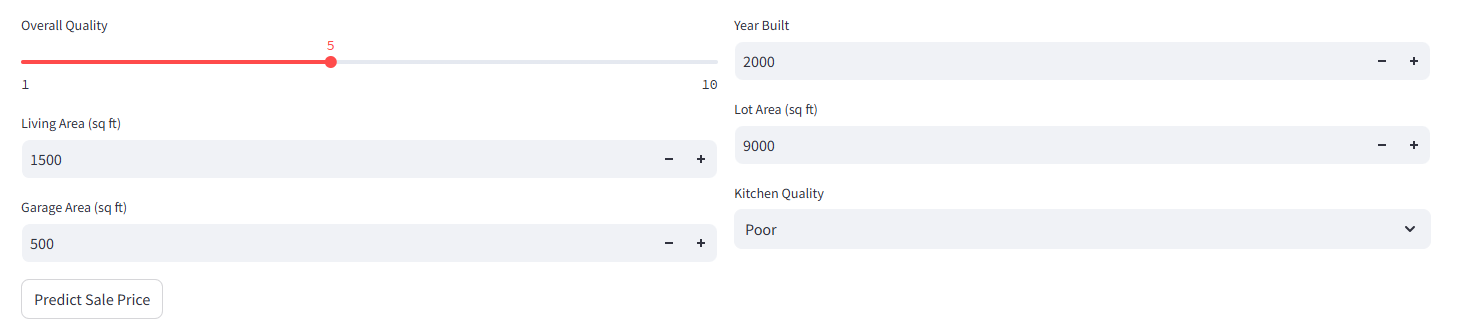
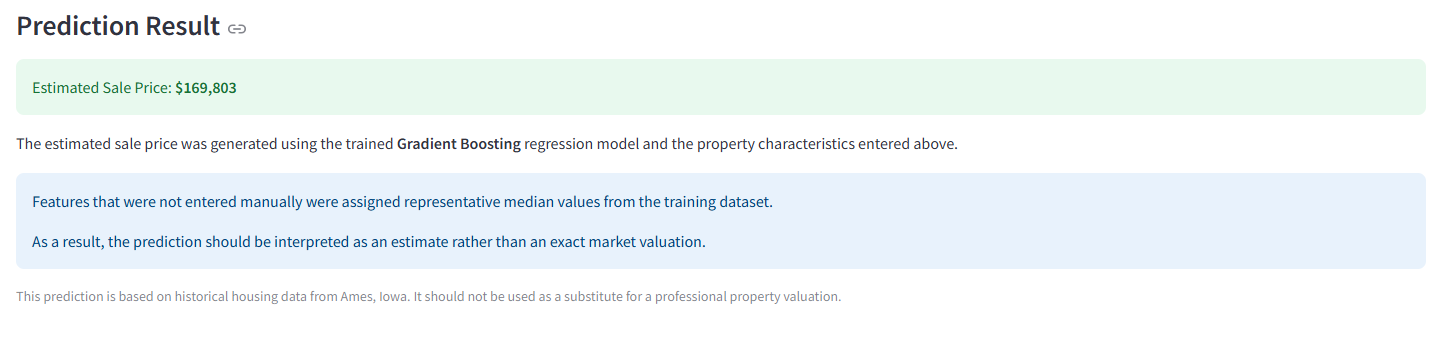
Add Dashboard design in README

diff --git a/README.md b/README.md
@@ -492,29 +492,45 @@ Both business requirements were addressed through exploratory analysis, feature 
 
 ## Dashboard Design
 
-The Streamlit dashboard contains five pages:
+The Streamlit dashboard is organised into five pages that guide the user through the project, from understanding the business problem to generating house price predictions.
 
 ### Project Overview
 
-- Introduces the project, its purpose, and the housing-price prediction objective.
+The Project Overview page introduces the purpose of the project, outlines the business scenario, and provides an overview of the dashboard. It also displays the navigation menu, allowing users to move easily between each section of the application.
+
+![Project Overview](images/readme/project_overview_full.png)
+
+The introduction section summarises the project objectives and the machine learning approach used to estimate house sale prices.
+
+![Project Overview Introduction](images/readme/project_overview_intro.png)
 
 ### Business Understanding
 
-- Explains the client problem, project hypotheses, and the validation results.
+The Business Understanding page explains the client's requirements, presents the project hypotheses, and summarises whether each hypothesis was supported after analysing the dataset.
+
+![Business Understanding](images/readme/business_understanding.png)
 
 ### Data Exploration
 
-- Displays the dataset preview, sale-price distribution, correlation heatmap, top correlated features, and visualisations used to assess the hypotheses.
+The Data Exploration page presents the processed dataset together with the key visualisations used to understand the data and identify relationships between property characteristics and sale price.
+
+![Data Exploration](images/readme/data_exploration.png)
 
 ### Model Performance
 
-- Presents MAE, RMSE, R², and a short interpretation of model performance.
+The Model Performance page compares the trained regression models, presents the evaluation metrics for the selected Gradient Boosting model, and explains why it was chosen for deployment.
+
+![Model Performance](images/readme/model_performance_dashboard.png)
 
 ### House Price Prediction
 
-- Allows users to enter selected house characteristics and receive an estimated sale price from the trained model.
+The House Price Prediction page allows users to enter key property characteristics and generate an estimated sale price using the trained Gradient Boosting regression model.
 
----
+![Prediction Dashboard](images/readme/house_price_prediction_dashboard.png)
+
+After entering the property information and clicking **Predict Sale Price**, the dashboard displays the estimated market value.
+
+![Prediction Result](images/readme/prediction_result.png)
 
 ## Testing
 